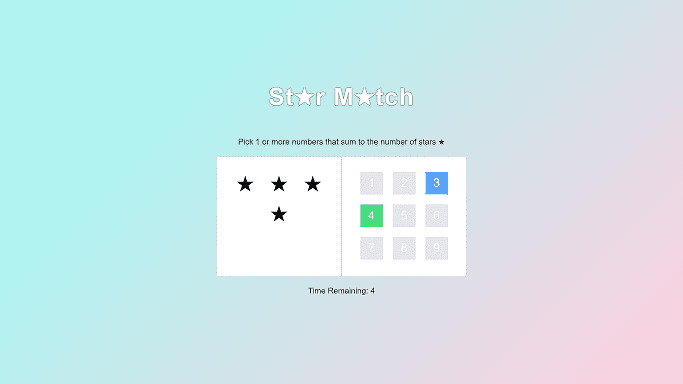
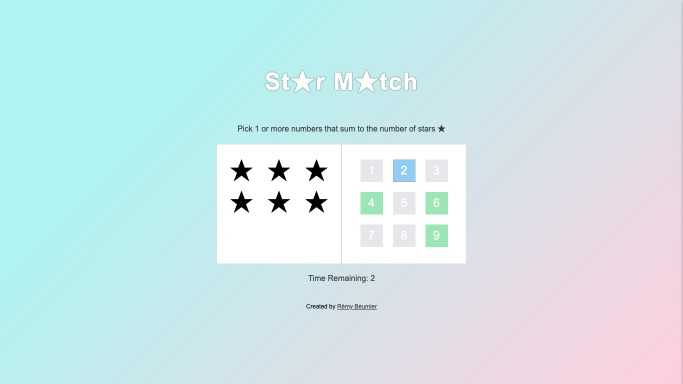
color change + footer

Changed region(s): [[0.3075, 0.3125, 0.7072, 0.8125], [0.369, 0.1875, 0.6149, 0.2812]]

diff --git a/script.js b/script.js
@@ -3,37 +3,47 @@ const { useEffect, useState } = React;
 // improve design
 // add start button
 
-const StarsDisplay = (props) => /*#__PURE__*/
-React.createElement(React.Fragment, null,
-utils.range(1, props.count).map((starId) => /*#__PURE__*/
-React.createElement("div", { key: starId, className: "star" })));
+const StarsDisplay = (props /*#__PURE__*/) =>
+  React.createElement(
+    React.Fragment,
+    null,
+    utils
+      .range(1, props.count)
+      .map((starId /*#__PURE__*/) =>
+        React.createElement('div', { key: starId, className: 'star' })
+      )
+  );
 
+const PlayNumber = (props /*#__PURE__*/) =>
+  React.createElement(
+    'button',
+    {
+      className: 'number',
+      style: { backgroundColor: colors[props.status] },
+      onClick: () => props.onClick(props.number, props.status),
+    },
 
+    props.number
+  );
 
+const PlayAgain = (props /*#__PURE__*/) =>
+  React.createElement(
+    'div',
+    { className: 'game-done' } /*#__PURE__*/,
+    React.createElement(
+      'p',
+      {
+        className: 'message',
+        style: { color: colors[props.gameStatus] },
+      },
 
-const PlayNumber = (props) => /*#__PURE__*/
-React.createElement("button", {
-  className: "number",
-  style: { backgroundColor: colors[props.status] },
-  onClick: () => props.onClick(props.number, props.status) },
+      props.gameStatus === 'lost' ? 'Game Over' : 'Nice'
+    ) /*#__PURE__*/,
 
-props.number);
+    React.createElement('button', { onClick: props.onClick }, 'Play Again')
+  );
 
-
-
-const PlayAgain = (props) => /*#__PURE__*/
-React.createElement("div", { className: "game-done" }, /*#__PURE__*/
-React.createElement("p", {
-  className: "message",
-  style: { color: colors[props.gameStatus] } },
-
-props.gameStatus === 'lost' ? 'Game Over' : 'Nice'), /*#__PURE__*/
-
-React.createElement("button", { onClick: props.onClick }, "Play Again"));
-
-
-
-const useGameState = timeLimit => {
+const useGameState = (timeLimit) => {
   const [stars, setStars] = useState(utils.random(1, 9));
   const [availableNums, setAvailableNums] = useState(utils.range(1, 9));
   const [candidateNums, setCandidateNums] = useState([]);
@@ -46,12 +56,13 @@ const useGameState = timeLimit => {
     }
   }, [secondsLeft]);
 
-  const setGameState = newCandidateNums => {
+  const setGameState = (newCandidateNums) => {
     if (utils.sum(newCandidateNums) !== stars) {
       setCandidateNums(newCandidateNums);
     } else {
       const newAvailableNums = availableNums.filter(
-      n => !newCandidateNums.includes(n));
+        (n) => !newCandidateNums.includes(n)
+      );
 
       setStars(utils.randomSumIn(newAvailableNums, 9));
       setAvailableNums(newAvailableNums);
@@ -62,21 +73,15 @@ const useGameState = timeLimit => {
   return { stars, availableNums, candidateNums, secondsLeft, setGameState };
 };
 
-const Game = props => {
-  const {
-    stars,
-    availableNums,
-    candidateNums,
-    secondsLeft,
-    setGameState } =
-  useGameState();
+const Game = (props) => {
+  const { stars, availableNums, candidateNums, secondsLeft, setGameState } =
+    useGameState();
 
   const candidatesAreWrong = utils.sum(candidateNums) > stars;
-  const gameStatus = availableNums.length === 0 ?
-  'won' :
-  secondsLeft === 0 ? 'lost' : 'active';
+  const gameStatus =
+    availableNums.length === 0 ? 'won' : secondsLeft === 0 ? 'lost' : 'active';
 
-  const numberStatus = number => {
+  const numberStatus = (number) => {
     if (!availableNums.includes(number)) {
       return 'right';
     }
@@ -94,65 +99,97 @@ const Game = props => {
     }
 
     const newCandidateNums =
-    currentStatus === 'available' ?
-    candidateNums.concat(number) :
-    candidateNums.filter(cn => cn !== number);
+      currentStatus === 'available'
+        ? candidateNums.concat(number)
+        : candidateNums.filter((cn) => cn !== number);
 
     setGameState(newCandidateNums);
   };
 
-  return /*#__PURE__*/(
-    React.createElement("div", { className: "game" }, /*#__PURE__*/
-    React.createElement("h1", { className: "title",
-      style: { color: colors[gameStatus] } }, "St\u2605r M\u2605tch"), /*#__PURE__*/
+  return /*#__PURE__*/ React.createElement(
+    'div',
+    { className: 'game' } /*#__PURE__*/,
+    React.createElement(
+      'h1',
+      { className: 'title', style: { color: colors[gameStatus] } },
+      'St\u2605r M\u2605tch'
+    ) /*#__PURE__*/,
 
+    React.createElement(
+      'p',
+      { className: 'help' },
+      'Pick 1 or more numbers that sum to the number of stars \u2605'
+    ) /*#__PURE__*/,
 
-    React.createElement("p", { className: "help" }, "Pick 1 or more numbers that sum to the number of stars \u2605"), /*#__PURE__*/
+    React.createElement(
+      'div',
+      { className: 'body' } /*#__PURE__*/,
+      React.createElement(
+        'div',
+        { className: 'left' },
+        gameStatus !== 'active' /*#__PURE__*/
+          ? React.createElement(PlayAgain, {
+              onClick: props.startNewGame,
+              gameStatus: gameStatus,
+            }) /*#__PURE__*/
+          : React.createElement(StarsDisplay, { count: stars })
+      ) /*#__PURE__*/,
 
+      React.createElement(
+        'div',
+        { className: 'right' },
+        utils.range(1, 9).map((number /*#__PURE__*/) =>
+          React.createElement(PlayNumber, {
+            key: number,
+            status: numberStatus(number),
+            number: number,
+            onClick: onNumberClick,
+          })
+        )
+      )
+    ) /*#__PURE__*/,
 
-    React.createElement("div", { className: "body" }, /*#__PURE__*/
-    React.createElement("div", { className: "left" },
-    gameStatus !== 'active' ? /*#__PURE__*/
-    React.createElement(PlayAgain, { onClick: props.startNewGame, gameStatus: gameStatus }) : /*#__PURE__*/
-
-    React.createElement(StarsDisplay, { count: stars })), /*#__PURE__*/
-
-
-    React.createElement("div", { className: "right" },
-    utils.range(1, 9).map((number) => /*#__PURE__*/
-    React.createElement(PlayNumber, {
-      key: number,
-      status: numberStatus(number),
-      number: number,
-      onClick: onNumberClick })))), /*#__PURE__*/
-
-
-
-
-    React.createElement("p", { className: "timer" }, "Time Remaining: ", secondsLeft)));
-
-
+    React.createElement(
+      'p',
+      { className: 'timer' },
+      'Time Remaining: ',
+      secondsLeft
+    ) /*#__PURE__*/,
+    React.createElement(
+      'footer',
+      null,
+      'Created by ',
+      /*#__PURE__*/ React.createElement(
+        'a',
+        { href: 'https://remybeumier.be', target: '_blank', rel: 'noreferrer' },
+        'R\xE9my Beumier'
+      )
+    )
+  );
 };
 
 const StarMatch = () => {
   const [gameId, setGameId] = useState(1);
-  return /*#__PURE__*/React.createElement(Game, { key: gameId, startNewGame: () => setGameId(gameId + 1) });
+  return /*#__PURE__*/ React.createElement(Game, {
+    key: gameId,
+    startNewGame: () => setGameId(gameId + 1),
+  });
 };
 
 // Color Theme
 const colors = {
   available: '#e5e7eb',
-  right: '#4ade80',
-  wrong: '#f87171',
-  candidate: '#60a5fa',
-  won: '#4ade80',
-  lost: '#f87171' };
-
+  right: '#9AE6B4',
+  wrong: '#FEB2B2',
+  candidate: '#90CDF4',
+  won: '#9AE6B4',
+  lost: '#FEB2B2',
+};
 
 // Math science
 const utils = {
   // Sum an array
-  sum: arr => arr.reduce((acc, curr) => acc + curr, 0),
+  sum: (arr) => arr.reduce((acc, curr) => acc + curr, 0),
 
   // create an array of numbers between min and max (edges included)
   range: (min, max) => Array.from({ length: max - min + 1 }, (_, i) => min + i),
@@ -176,7 +213,10 @@ const utils = {
       }
     }
     return sums[utils.random(0, sums.length - 1)];
-  } };
+  },
+};
 
-
-ReactDOM.render( /*#__PURE__*/React.createElement(StarMatch, null), document.getElementById('root'));
+ReactDOM.render(
+  /*#__PURE__*/ React.createElement(StarMatch, null),
+  document.getElementById('root')
+);

diff --git a/style.css b/style.css
@@ -6,7 +6,7 @@ body {
   font-family: Arial;
   background: #ffcfdf;
   background: linear-gradient(315deg, #ffcfdf 0%, #b0f3f1 74%);
-/*   background: linear-gradient(to top right, rgba(0,0,0,0.2), rgba(0,0,0,0.2)), linear-gradient(315deg, #ffcfdf 0%, #b0f3f1 74%); */
+  /*   background: linear-gradient(to top right, rgba(0,0,0,0.2), rgba(0,0,0,0.2)), linear-gradient(315deg, #ffcfdf 0%, #b0f3f1 74%); */
   min-height: 100vh;
   margin: 0;
   padding: 0;
@@ -17,7 +17,7 @@ body {
 
 .game {
   margin: 0 auto;
-/*   background: rgba(0,0,0,0.3); */
+  /*   background: rgba(0,0,0,0.3); */
   padding: 20px;
 }
 
@@ -43,7 +43,8 @@ body {
   justify-content: center;
 }
 
-.left, .right {
+.left,
+.right {
   text-align: center;
   padding: 20px 0;
   width: 250px;
@@ -53,12 +54,12 @@ body {
 }
 
 .star {
-	display: inline-block;
+  display: inline-block;
   margin: 0 15px;
 }
 
 .star:after {
-  content: "\2605";
+  content: '\2605';
   font-size: 45px;
 }
 
@@ -72,7 +73,8 @@ body {
   font-size: 1.5rem;
 }
 
-.number:focus, .number:active {
+.number:focus,
+.number:active {
   outline: none;
   border: 1px solid #aaa;
 }
@@ -101,13 +103,28 @@ body {
   background-color: #ccc;
 }
 
-.game-done button:focus, .game-done button:active {
+.game-done button:focus,
+.game-done button:active {
   outline: none;
   border: 1px solid #aaa;
 }
 
 .timer {
-	color: #333;
+  color: #333;
   margin: 20px 0;
   text-align: center;
+}
+
+footer {
+  padding: 20px 0;
+  text-align: center;
+  font-size: 12px;
+}
+
+footer a {
+  color: #333;
+}
+
+footer a:hover {
+  color: #000;
 }
